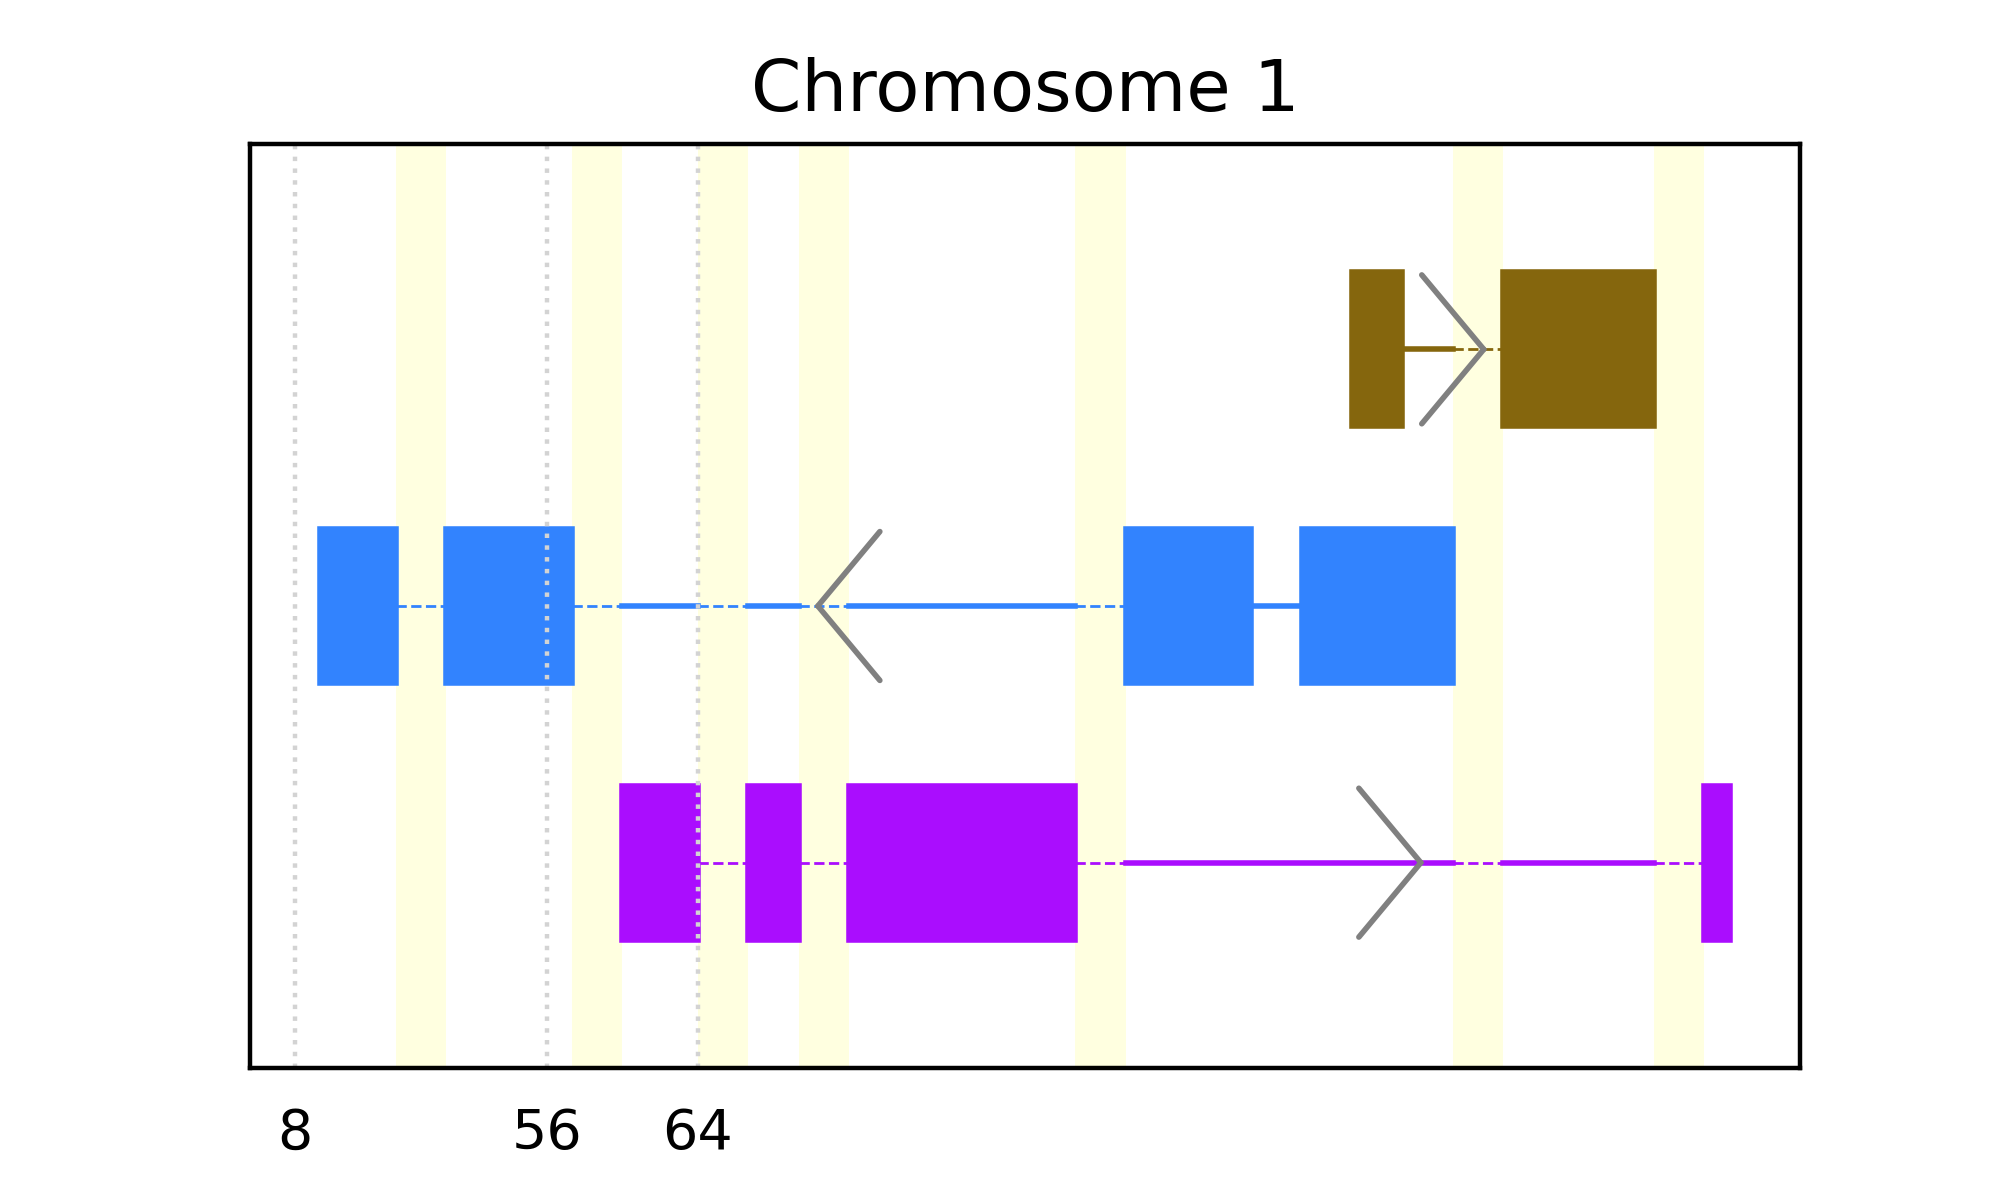
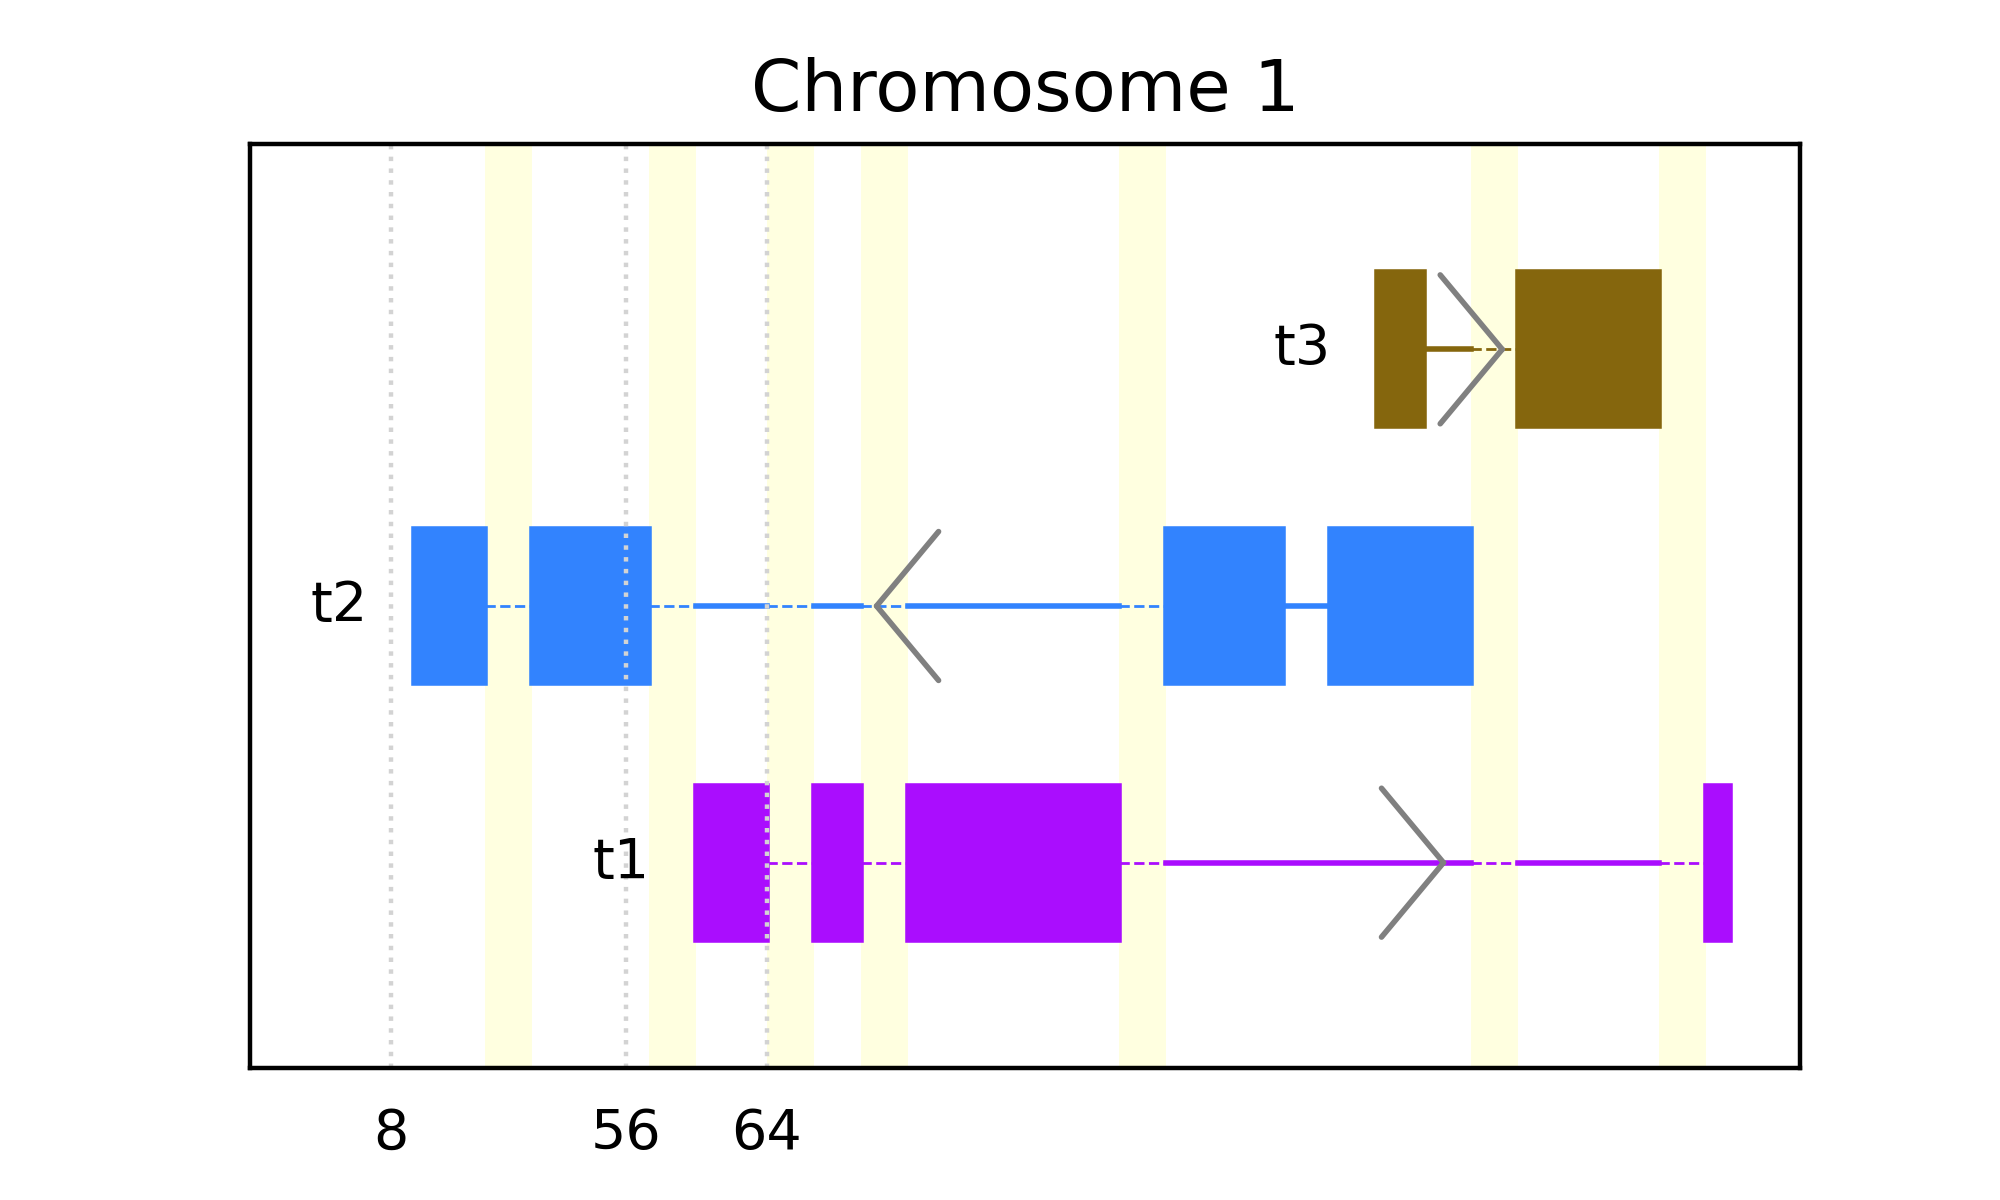
Update example figures.

diff --git a/examples/pr_figs_1_2.py b/examples/pr_figs_1_2.py
@@ -26,23 +26,24 @@ gr_2 = gr_2[["Chromosome", "Feature", "Start", "End", "Strand", "Parent"]]
 
 
 # Figure 1
-# interactive plot to show tooltip (Figure 1.1)
+# interactive plot to show tooltip (Figure 1.A)
 prp.set_engine("plt")
-prp.plot(gr, file_size=(5, 3))
+prp.plot(gr, title_size=30, text_size=15)
 
-# show id, color col and cmap and save as png (Figure 1.2)
+# show id, color col and cmap and save as png (Figure 1.B)
 prp.plot(
     gr_1,
     id_col="transcript_id",
     color_col="Strand",
     colormap={"+": "lightgreen", "-": "lightblue"},
-    to_file="fig1_2.png",
-    file_size=(5, 2),
+    to_file=("fig_1b.png", (500, 200)),
+    limits=(-5, None),
+    text_pad=2,
 )
 
 
 # Figure 2
-# show thick_cds and save png (Figure 2.1)
+# show thick_cds and save png (Figure 2.A)
 prp.plot(
     gr_2,
     id_col="Parent",
@@ -52,11 +53,13 @@ prp.plot(
     arrow_size=0.04,
 )
 
-# show introns off and save png (Figure 2.2)
+# show introns off and save png (Figure 2.B)
 prp.plot(
     gr_1,
     id_col="transcript_id",
     shrink=True,
     to_file=("fig_2b.png", (500, 300)),
     arrow_size=0.04,
+    text_pad=2,
+    limits=(5, None),
 )

diff --git a/src/pyranges_plot/plot_main.py b/src/pyranges_plot/plot_main.py
@@ -57,7 +57,7 @@ def plot(
     shrink=False,
     limits=None,
     thick_cds=False,
-    text=False,
+    text=True,
     legend=False,
     title_chr="Chromosome {chrom}",
     y_labels=None,
@@ -121,7 +121,7 @@ def plot(
         must be stored in the 'Feature' column of the PyRanges object or the dataframe. Note that any other
         Feature value other than exon and CDS will be discarded for plotting.
 
-    text: {bool, '{string}'}, default False
+    text: {bool, '{string}'}, default True
         Whether an annotation should appear beside the gene in the plot. If True, the id/index will be used. To
         customize the annotation use the '{string}' option to choose another data column. Providing the text as
         a '{data_column_name}' allows slicing in the case of strings by using '{data_column_name[:4]}'.

diff --git a/examples/pr_fig_3b.py b/examples/pr_fig_3b.py
@@ -36,6 +36,7 @@ plt.rcParams["figure.subplot.left"] = 0.27
 prp.plot(
     [r, r_window, tile_g, r_tile],
     packed=False,
+    text=False,
     id_col="transcript_id",
     exon_border="black",
     title_chr=" ",

diff --git a/examples/pr_fig_3a.py b/examples/pr_fig_3a.py
@@ -55,6 +55,7 @@ prp.plot(
         pr.concat([g_spl_subseq_for, g_spl_subseq_rev]),
     ],
     packed=False,
+    text=False,
     warnings=False,
     id_col="transcript_id",
     title_chr=" ",

diff --git a/examples/pr_fig_3c.py b/examples/pr_fig_3c.py
@@ -75,6 +75,7 @@ prp.plot(
     ],
     title_chr=" ",
     warnings=False,
+    text=False,
     to_file=("fig_3c.png", (800, 400)),
     color_col="to_color",
     arrow_color="black",
